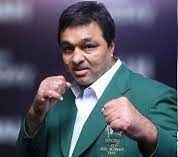
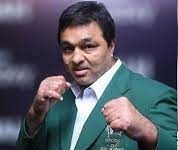
2nd Update

diff --git a/pages/celib.htm b/pages/celib.htm
@@ -1,0 +1,71 @@
+<table border = 1 solid width="100%">
+<tr ><td colspan=5 align=center>SYED HUSSAIN SHAH</td></tr>
+<tr>
+<td>
+<iframe width="255" height="250" src="https://www.youtube.com/embed/KXLPMJMssDk?si=oHPecHXZPAqJE4Zi" title="YouTube video player" frameborder="0" allow="accelerometer; autoplay; clipboard-write; encrypted-media; gyroscope;
+ picture-in-picture; web-share" referrerpolicy="strict-origin-when-cross-origin" allowfullscreen></iframe>
+</td>
+<td>
+<iframe width="255" height="250" src="https://www.youtube.com/embed/gCixbRORzPo?si=7gCzJ1Fz26H9LwRl" title="YouTube video player" frameborder="0" allow="accelerometer; autoplay; clipboard-write; encrypted-media; gyroscope;
+ picture-in-picture; web-share" referrerpolicy="strict-origin-when-cross-origin" allowfullscreen></iframe>
+</td>
+
+<td>
+<iframe width="255" height="250" src="https://www.youtube.com/embed/ejBiCJJm5f4?si=M3EI-8J_d6DaPc6c" title="YouTube video player" frameborder="0" allow="accelerometer; autoplay; clipboard-write; encrypted-media; gyroscope; 
+picture-in-picture; web-share" referrerpolicy="strict-origin-when-cross-origin" allowfullscreen></iframe>
+</td>
+
+<td>
+<iframe width="255" height="250" src="https://www.youtube.com/embed/T--bbK7QB_4?si=4igMvYx1PhT-Hflh" title="YouTube video player" frameborder="0" allow="accelerometer; autoplay; clipboard-write; encrypted-media; gyroscope; 
+picture-in-picture; web-share" referrerpolicy="strict-origin-when-cross-origin" allowfullscreen></iframe>
+</td>
+
+<td>
+<iframe width="255" height="250" src="https://www.youtube.com/embed/mbmXRGK_dFg?si=CH4tUfHZkfjPn1fx" title="YouTube video player" frameborder="0" allow="accelerometer; autoplay; clipboard-write; encrypted-media; gyroscope; 
+picture-in-picture; web-share" referrerpolicy="strict-origin-when-cross-origin" allowfullscreen></iframe>
+</td>
+
+</tr>
+<tr ><td colspan=5 align=center>MUSTAFA QURESHI</td></tr>
+<tr>
+<td>
+<iframe width="255" height="250" src="https://www.youtube.com/embed/s-B4s3PtCQQ?si=NuuJPLKUgjhmgTIW" title="YouTube video player" frameborder="0" allow="accelerometer; autoplay; clipboard-write; encrypted-media; gyroscope; 
+picture-in-picture; web-share" referrerpolicy="strict-origin-when-cross-origin" allowfullscreen></iframe>
+</td>
+
+<td>
+<iframe width="255" height="250" src="https://www.youtube.com/embed/vPjz2nohiKY?si=3VquSaf6BxX4dgK5" title="YouTube video player" frameborder="0" allow="accelerometer; autoplay; clipboard-write; encrypted-media; gyroscope; 
+picture-in-picture; web-share" referrerpolicy="strict-origin-when-cross-origin" allowfullscreen></iframe>
+</td>
+<td>
+<iframe width="255" height="250" src="https://www.youtube.com/embed/XzrwEyVoP1s?si=IKno9RCQiSR_0zga" title="YouTube video player" frameborder="0" allow="accelerometer; autoplay; clipboard-write; encrypted-media; gyroscope; 
+picture-in-picture; web-share" referrerpolicy="strict-origin-when-cross-origin" allowfullscreen></iframe>
+</td>
+
+<td>
+<iframe width="255" height="250" src="https://www.youtube.com/embed/VSImr8tEqvc?si=1-Rr9AfC6CE0Be2t" title="YouTube video player" frameborder="0" allow="accelerometer; autoplay; clipboard-write; encrypted-media; gyroscope; 
+picture-in-picture; web-share" referrerpolicy="strict-origin-when-cross-origin" allowfullscreen></iframe>
+</td>
+
+<td>
+<iframe width="255" height="250" src="https://www.youtube.com/embed/yQYWDIQM6Vg?si=flKddFPpE9-_082q" title="YouTube video player" frameborder="0" allow="accelerometer; autoplay; clipboard-write; encrypted-media; gyroscope; 
+picture-in-picture; web-share" referrerpolicy="strict-origin-when-cross-origin" allowfullscreen></iframe>
+</td>
+</tr>
+
+<tr>
+<td colspan=5 align=center>UATAAD MUHAMMAD JUMMAN</td>
+</tr>
+<tr>
+
+<td>
+<iframe width="255" height="250" src="https://www.youtube.com/embed/AaiNz1XohNs?si=rSqxiUQJRjPDtdIM" title="YouTube video player" frameborder="0" allow="accelerometer; autoplay; clipboard-write; encrypted-media; gyroscope; 
+picture-in-picture; web-share" referrerpolicy="strict-origin-when-cross-origin" allowfullscreen></iframe>
+</td>
+<td>
+<iframe width="255" height="250" src="https://www.youtube.com/embed/1queJK0M5BM?si=bT7Q6F63Xi3mxvjw" title="YouTube video player" frameborder="0" allow="accelerometer; autoplay; clipboard-write; encrypted-media; gyroscope; 
+picture-in-picture; web-share" referrerpolicy="strict-origin-when-cross-origin" allowfullscreen></iframe>
+</td>
+
+</tr>
+</table>

diff --git a/pages/sports.htm b/pages/sports.htm
@@ -1,0 +1,73 @@
+<table border = 1 solid width="100%">
+<tr><td colspan=5 align="center">M A L A K H R O</td></tr>
+
+<tr>
+<td>
+<iframe width="255" height="250" src="https://www.youtube.com/embed/XGytVE-4qn8?si=tnXYKKeua5t1TwAP" title="YouTube video player" frameborder="0" allow="accelerometer; autoplay; clipboard-write; encrypted-media;
+gyroscope; picture-in-picture; web-share" referrerpolicy="strict-origin-when-cross-origin" allowfullscreen></iframe>
+</td>
+
+<td>
+<iframe width="255" height="250" src="https://www.youtube.com/embed/hSjIdjCiUUU?si=AVn1KRS_CHywPF6y" title="YouTube video player" frameborder="0" allow="accelerometer; autoplay; clipboard-write; encrypted-media; 
+gyroscope; picture-in-picture; web-share" referrerpolicy="strict-origin-when-cross-origin" allowfullscreen></iframe>
+</td>
+<td>
+<iframe width="255" height="250" src="https://www.youtube.com/embed/WRskZWWAzSk?si=H3-y6O7CDRla9WnZ" title="YouTube video player" frameborder="0" allow="accelerometer; autoplay; clipboard-write; encrypted-media; 
+gyroscope; picture-in-picture; web-share" referrerpolicy="strict-origin-when-cross-origin" allowfullscreen></iframe>
+</td>
+
+<td>
+<iframe width="255" height="250" src="https://www.youtube.com/embed/_6uv1xgm7bU?si=hnJOX4bjESxWz_gr" title="YouTube video player" frameborder="0" allow="accelerometer; autoplay; clipboard-write; encrypted-media;
+gyroscope; picture-in-picture; web-share" referrerpolicy="strict-origin-when-cross-origin" allowfullscreen></iframe>
+</td>
+
+<td>
+<iframe width="255" height="250" src="https://www.youtube.com/embed/aYcVPOfMkwM?si=nEAs4tJ-BE17LBQG" title="YouTube video player" frameborder="0" allow="accelerometer; autoplay; clipboard-write; encrypted-media; 
+gyroscope; picture-in-picture; web-share" referrerpolicy="strict-origin-when-cross-origin" allowfullscreen></iframe>
+</td>
+</tr>
+
+<tr><td colspan=5 align="center">G O E Y</td></tr>
+<tr>
+<td>
+<iframe width="255" height="250" src="https://www.youtube.com/embed/a-oyQcV5jqg?si=O5BYddXB31BjCn0K" title="YouTube video player" frameborder="0" allow="accelerometer; autoplay; clipboard-write; encrypted-media; 
+gyroscope; picture-in-picture; web-share" referrerpolicy="strict-origin-when-cross-origin" allowfullscreen></iframe>
+</td>
+
+<td>
+<iframe width="255" height="250" src="https://www.youtube.com/embed/UiuZ6NarBD4?si=9yLJMQd7DwlXXir3" title="YouTube video player" frameborder="0" allow="accelerometer; autoplay; clipboard-write; encrypted-media; 
+gyroscope; picture-in-picture; web-share" referrerpolicy="strict-origin-when-cross-origin" allowfullscreen></iframe>
+</td>
+
+<td>
+<iframe width="255" height="250" src="https://www.youtube.com/embed/1NrI4J-SRTk?si=2x3YBQQAMKxq62i2" title="YouTube video player" frameborder="0" allow="accelerometer; autoplay; clipboard-write; encrypted-media; 
+gyroscope; picture-in-picture; web-share" referrerpolicy="strict-origin-when-cross-origin" allowfullscreen></iframe>
+</td>
+
+<td>
+<iframe width="255" height="250" src="https://www.youtube.com/embed/cJoj3MI1t7A?si=mCHeS_fJ4M5u6cpS" title="YouTube video player" frameborder="0" allow="accelerometer; autoplay; clipboard-write; encrypted-media; 
+gyroscope; picture-in-picture; web-share" referrerpolicy="strict-origin-when-cross-origin" allowfullscreen></iframe>
+</td>
+
+<td>
+<iframe width="255" height="250" src="https://www.youtube.com/embed/3onhX6PWHW0?si=cQUFSSiaalz08ZCP" title="YouTube video player" frameborder="0" allow="accelerometer; autoplay; clipboard-write; encrypted-media; 
+gyroscope; picture-in-picture; web-share" referrerpolicy="strict-origin-when-cross-origin" allowfullscreen></iframe>
+</td>
+</tr>
+
+<tr>
+<td colspan=5 align="center">B E L A R O</td>
+</tr>
+
+<tr>
+<td>
+<iframe width="255" height="250" src="https://www.youtube.com/embed/iE9yz7xvmYE?si=FV1yIkNS8fHszI3c" title="YouTube video player" frameborder="0" allow="accelerometer; autoplay; clipboard-write; encrypted-media; 
+gyroscope; picture-in-picture; web-share" referrerpolicy="strict-origin-when-cross-origin" allowfullscreen></iframe>
+</td>
+
+<td>
+<iframe width="255" height="250" src="https://www.youtube.com/embed/ho_yb9XyXYQ?si=cWcHCbW9ukogONCP" title="YouTube video player" frameborder="0" allow="accelerometer; autoplay; clipboard-write; encrypted-media; 
+gyroscope; picture-in-picture; web-share" referrerpolicy="strict-origin-when-cross-origin" allowfullscreen></iframe>
+</td>
+
+</tr>

diff --git a/index-Copy.htm b/index-Copy.htm
@@ -1,7 +1,6 @@
 <!DOCTYPE html>
-<html lang="ar">
-<!--Author: Ziaullah Indhad
-    LastUpdated: June 24, 2026-->
+<html lang="sd-PK">
+
 <head>
   <meta name="viewport" content="width=device-width, initial-scale=1.0">
   <link rel="stylesheet" href="styles/mystyle.css">
@@ -14,17 +13,18 @@
   <meta name="description" content="A web site for Sindhi People">
   <meta name="author" content="Ziaullah Indhad">
   <link rel="icon" type=image/png" href="./images/sindhilogo.png">
-  <script src="scripts/greetings.js"></script>
+  
 </head>
 
 <body>
-<!-- THIS IS A COMMENT -->
   <header>
-    <img id="slogo" src="images/sindhmap.jpg" title="Sindh Map">
-    <h1 id="hh1" title="Sindhi Mahron" dir="rtl">     
-     ڀلي ڪري آيا = <span id="clientGreeting"></span>
-     <img id="stir" src="images/smk6.jpg">
-    </h1> 
+    <p>
+    <h1 id="hh1" title="Sindhi Mahron">
+      <img id="stil" src="images/sindhmap.jpg" title="Sindh Map">
+      ڀلي ڪري آيا
+      <img id="stir" src="images/smk6.jpg">
+    </h1>
+    </p>
   </header>
 
   <main>
@@ -85,10 +85,10 @@
       <h2>Mehran Culture</h2>      
       <span id="rdt">
         <h3 class="rdl">C E L E B R A T I E S</h3>  
-	<a id="sc" href="pages/celib.htm" target="detail"><img src="images/HShah.jpg" title="Hussain Shah first ever Pakistani International Boxer" ;></a>
+	<a href="pages/celib.htm" target="detail"><img src="images/HShah.jpg" title="Hussain Shah first ever Pakistani International Boxer" ;></a>
         <img src="images/m-qureshi1.jpg" title="Mustafa Qureshi the onlyest most liked and favorite Villan" ;>
         <img src="images/umJumman2.png"  title="Ustaad Muhammad Jumman, the Legendary Sindh folk singer" ;>
-        <img src="images/fahadmustafa1.jpg"  title="Fahad Musta, the young host, tv and film actor" ;>
+        <img src="images/fahadmustafa1.jpg"  title="Ustaad Muhammad Jumman, the Legendary Sindh folk singer" ;>
         <h3 class="rdl">S P O R T S</h3>
         <a href="pages/sports.htm" target="detail"><img src="images/sm4.jpg" title="The Most popular Sindhi wrestling Malakhro" ;></a>
         <img src="images/sm2.jpg" ;>

diff --git a/styles/mystyle-Copy.css b/styles/mystyle-Copy.css
@@ -47,46 +47,32 @@ header {
   height: 6%;
   width: 100%;
 }
-/*
+
 header:hover {
   font-size: 50px;
 
   #hh1 {
-    color: red;}
+    color: red;
+  }
 
   transition-duration: 2s;
   transition-timing-function: linear;
 }
-*/
 
-#hh1{
-transition: font-size 0.8s ease;}
-
-#hh1:hover{
-font-size:60px;
-color: red;}
-
-img#slogo {
+img#stil {
+  font-size:50px;
   width: 50px;
   height: 53px;
   float: left;
   border-radius: 50%;
-  transition: transform 0.8s ease;
-  transform-origin:top left;
 }
 
-/*
-img#slogo:hover {
-  width: 350px;
-  height: 350px;
+img#stil:hover {
+  width: 250px;
+  height: 250px;
 
   transition-duration: 2s;
   transition-timing-function: linear;
-}
-*/
-
-img#slogo:hover {
-  transform: scale(8); /* grows visually, not physically */
 }
 
 img#stir {
@@ -193,9 +179,9 @@ li {
   list-style-type: none;
   width: 100%;
 }
-/*
+
 a:hover {
-  background-color: blue;
+  background-color: darkgreen;
   border-radius: 10%;
   width: 40%;
   text-align: center;
@@ -203,10 +189,6 @@ a:hover {
   transition-duration: 2s;
   transition-timing-function: linear;
   transform: translate(-35px);
-}*/
-
-a#sc{
-  hoover:
 }
 
 a#fr1 {

diff --git a/styles/mystyle-Copy2.css b/styles/mystyle-Copy2.css
@@ -47,46 +47,32 @@ header {
   height: 6%;
   width: 100%;
 }
-/*
+
 header:hover {
   font-size: 50px;
 
   #hh1 {
-    color: red;}
+    color: red;
+  }
 
   transition-duration: 2s;
   transition-timing-function: linear;
 }
-*/
 
-#hh1{
-transition: font-size 0.8s ease;}
-
-#hh1:hover{
-font-size:60px;
-color: red;}
-
-img#slogo {
+img#stil {
+  font-size:50px;
   width: 50px;
   height: 53px;
   float: left;
   border-radius: 50%;
-  transition: transform 0.8s ease;
-  transform-origin:top left;
 }
 
-/*
-img#slogo:hover {
-  width: 350px;
-  height: 350px;
+img#stil:hover {
+  width: 250px;
+  height: 250px;
 
   transition-duration: 2s;
   transition-timing-function: linear;
-}
-*/
-
-img#slogo:hover {
-  transform: scale(8); /* grows visually, not physically */
 }
 
 img#stir {
@@ -193,9 +179,9 @@ li {
   list-style-type: none;
   width: 100%;
 }
-/*
+
 a:hover {
-  background-color: blue;
+  background-color: darkgreen;
   border-radius: 10%;
   width: 40%;
   text-align: center;
@@ -203,7 +189,7 @@ a:hover {
   transition-duration: 2s;
   transition-timing-function: linear;
   transform: translate(-35px);
-}*/
+}
 
 a#sc{
   hoover:

diff --git a/pages/abbasi.htm b/pages/abbasi.htm
@@ -1,0 +1,19 @@
+<!DOCTYPE html>
+<html lang="en">
+<head>
+    <meta charset="UTF-8">
+    <meta http-equiv="X-UA-Compatible" content="IE=edge">
+    <meta name="viewport" content="width=device-width, initial-scale=1.0">
+    <script src="/scripts/tass.js"></script>
+    <title>ABRO Sindhi Tribe</title>
+<style>
+body{}
+h1{color:yellow;border:2px;padding:160px;}
+a{color:green;font-family:"Arial Black";border:2px;padding:30px;margin:30px;}
+</style>
+
+</head>
+<body>
+    <h1>Abbassi tribe of the Sindh</h1>   
+</body>
+</html>
